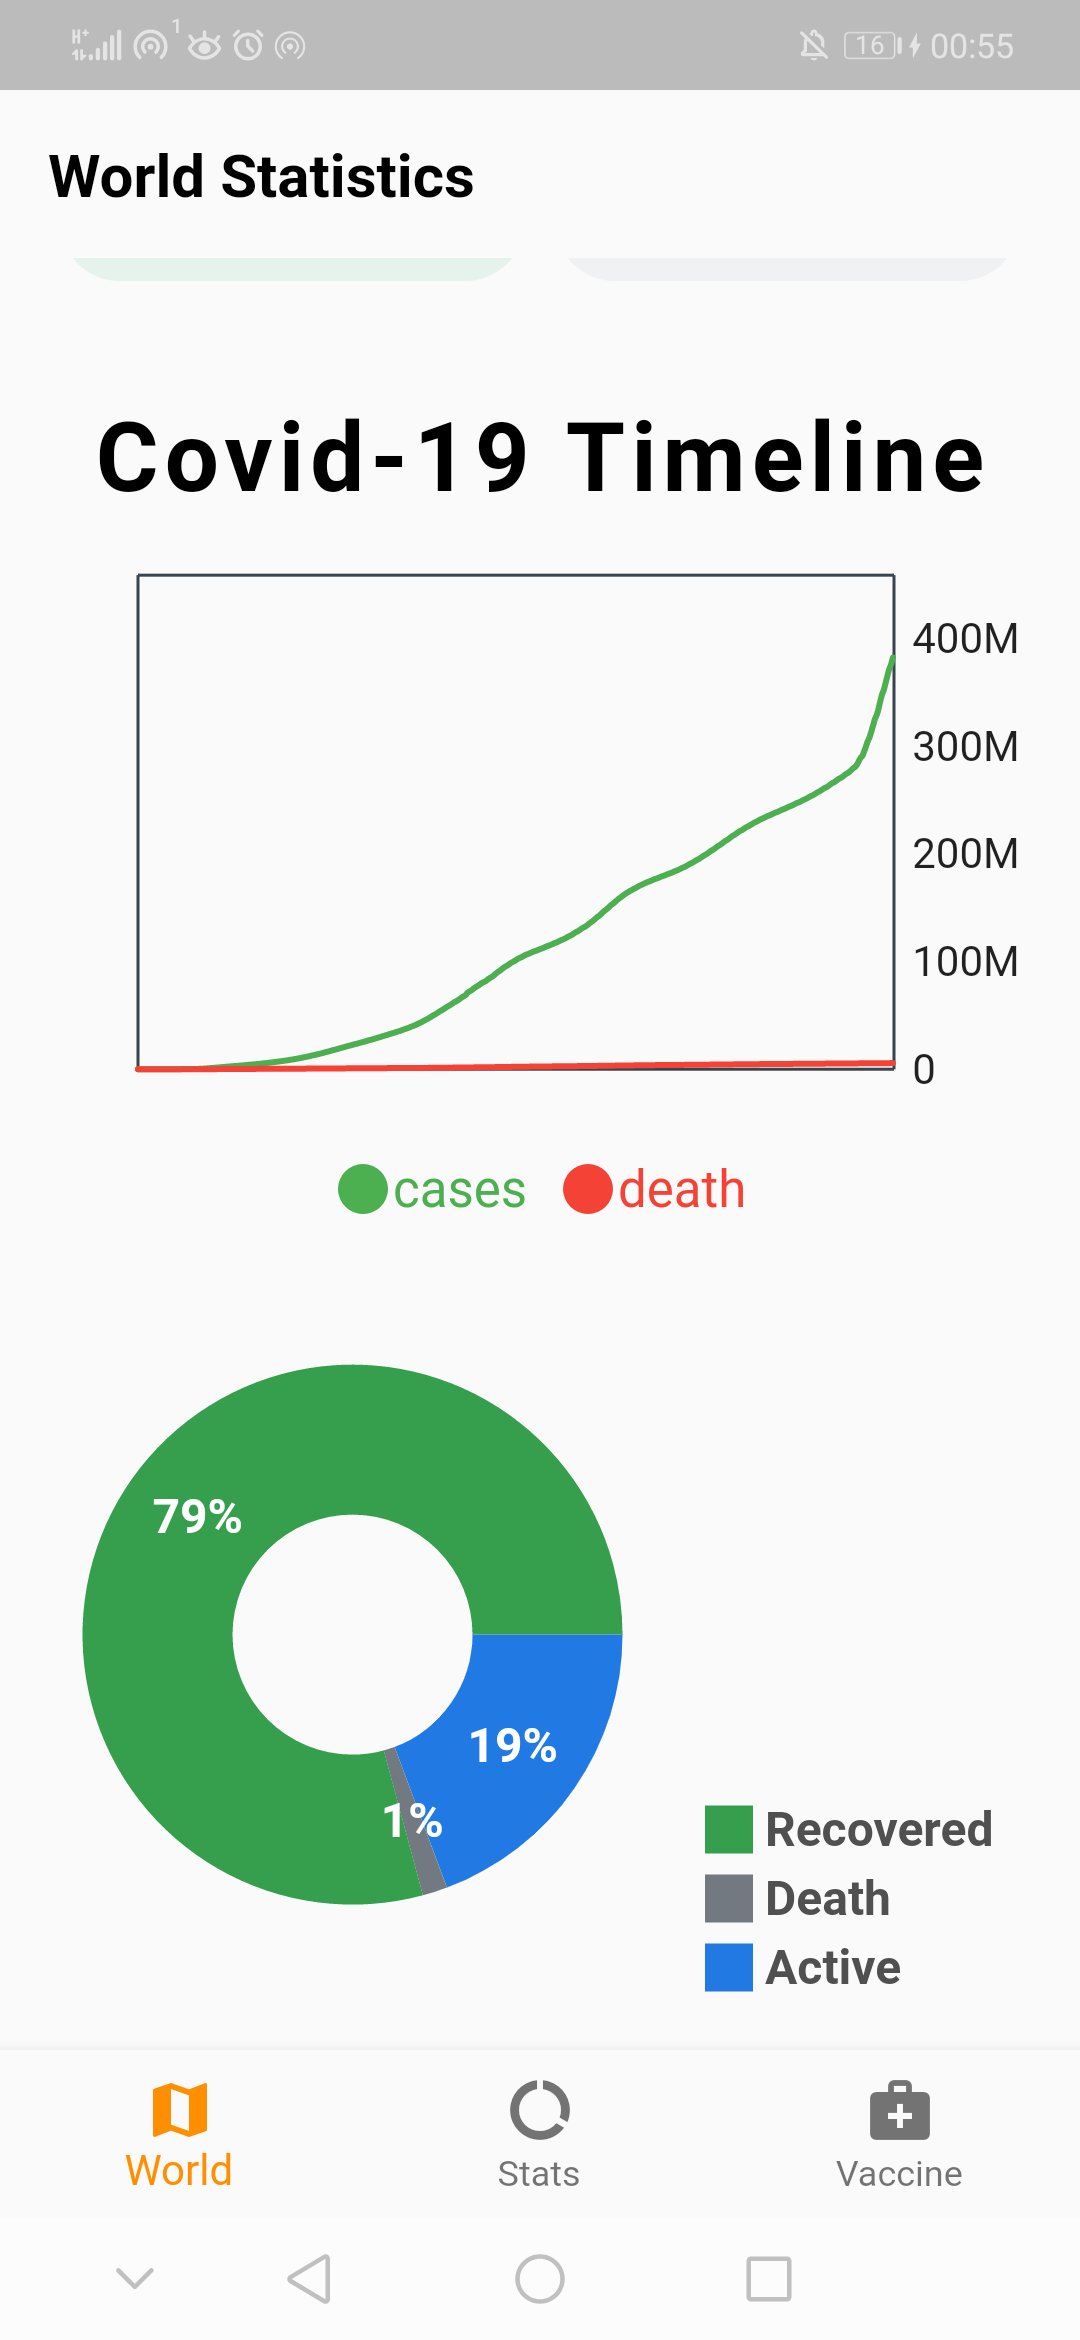
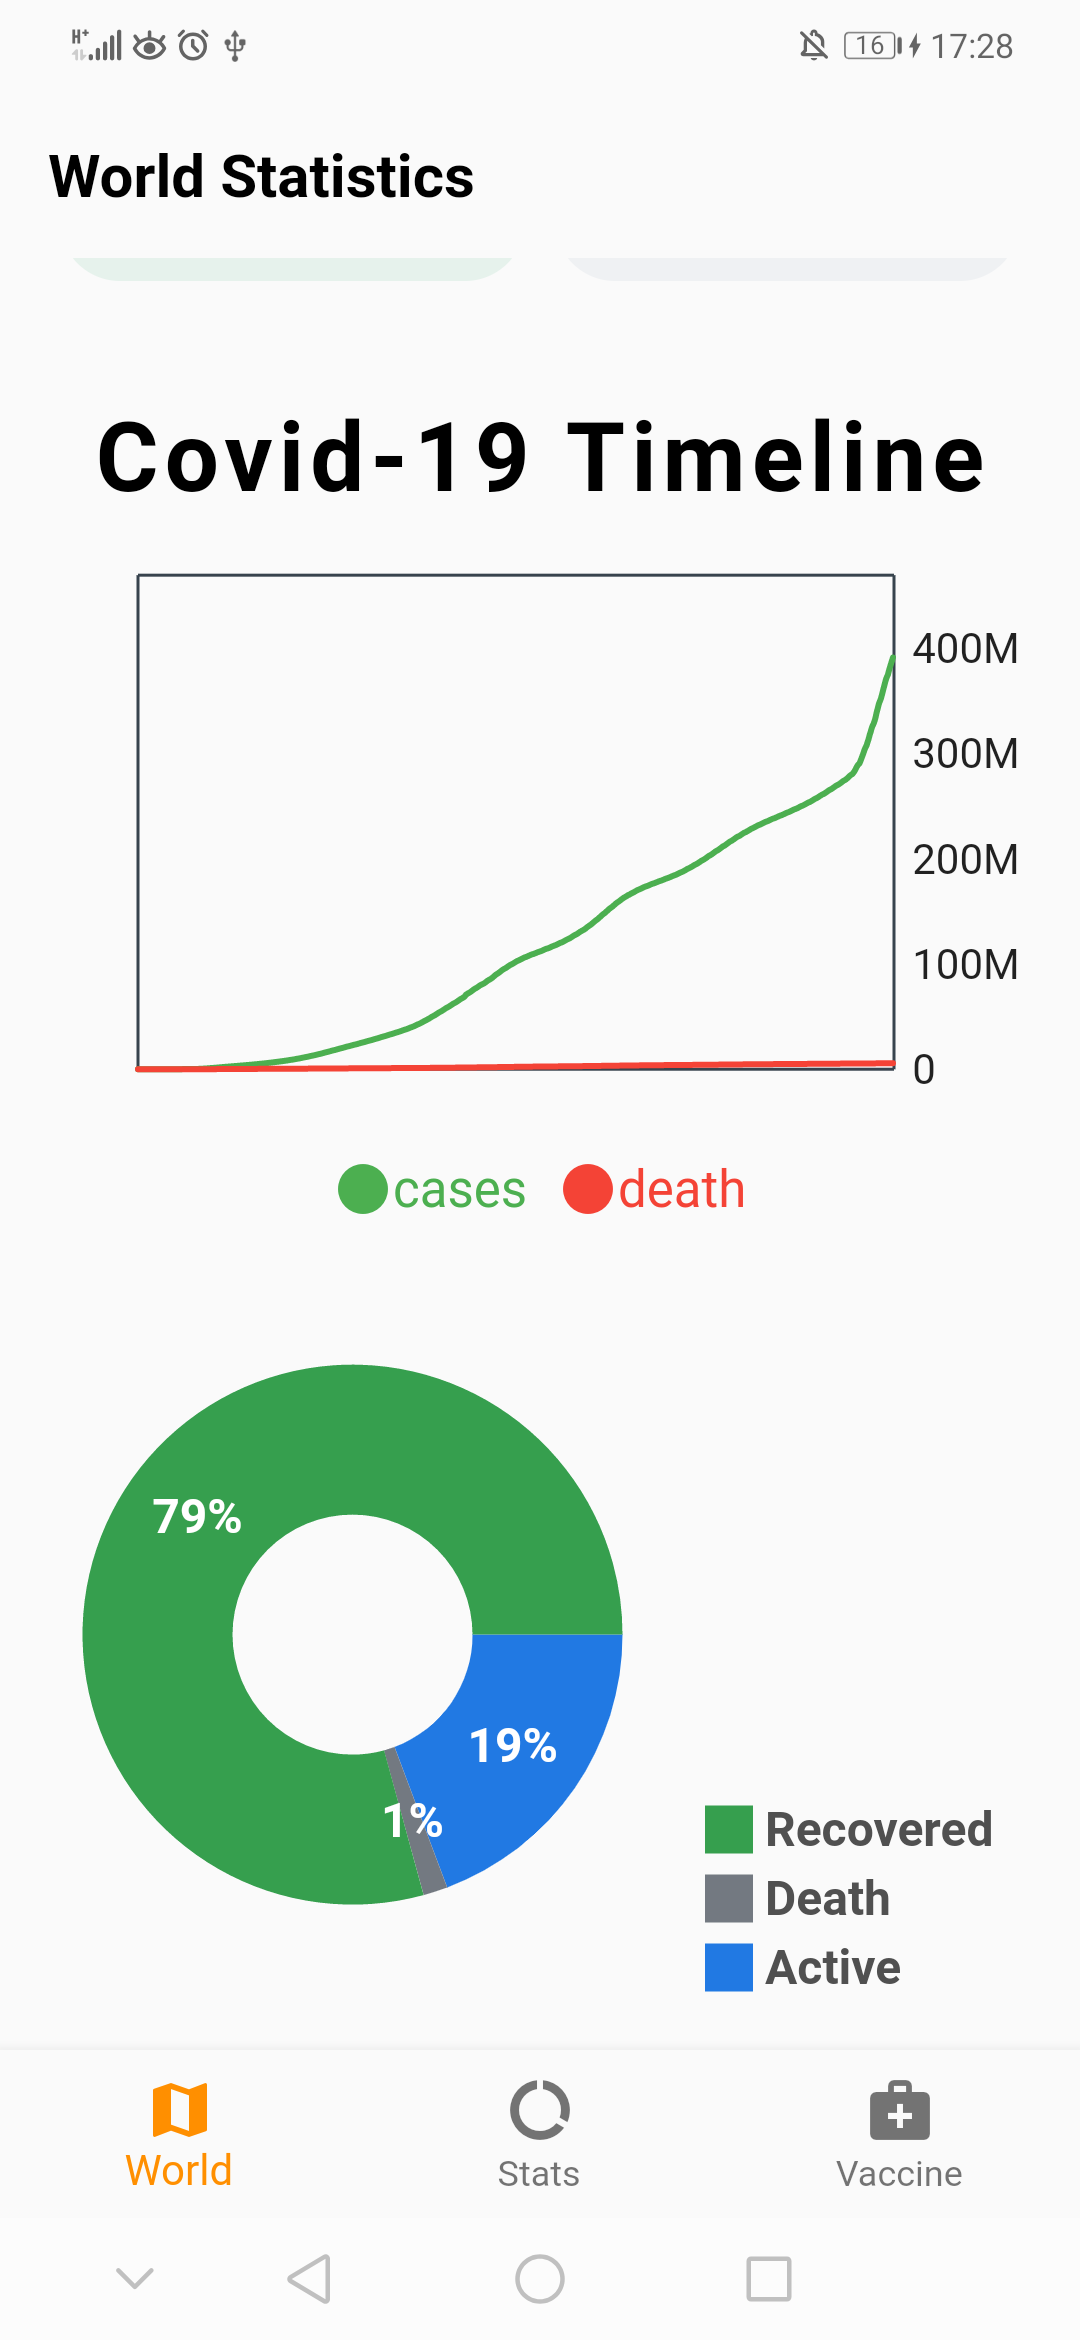
chore: change status bar color & update readme file

diff --git a/lib/utils/constants.dart b/lib/utils/constants.dart
@@ -1,7 +1,8 @@
 import 'package:flutter/material.dart';
+import 'package:flutter/services.dart';
 
 class Constants {
-
+  
   ///bottom nav bar items
   static const bottomNavWorld = "World";
   static const bottomNavStats = "Stats";
@@ -46,4 +47,10 @@ class Constants {
   static const textRecoveredColor = Color(0xFF369F4E);
   static const deceasedColor = Color(0xFFEFF1F3);
   static const textDeceasedColor = Color(0xFF737981);
+
+  //status bar color
+  static const statusBarColor = SystemUiOverlayStyle(
+      statusBarBrightness: Brightness.dark,
+      statusBarIconBrightness: Brightness.dark, 
+      statusBarColor: Colors.transparent);
 }

diff --git a/test/widget_test.dart b/test/widget_test.dart
@@ -5,12 +5,14 @@
 // gestures. You can also use WidgetTester to find child widgets in the widget
 // tree, read text, and verify that the values of widget properties are correct.
 
+import 'package:covid_tracker/di/service_locator.dart';
 import 'package:flutter/material.dart';
 import 'package:flutter_test/flutter_test.dart';
 
 import 'package:covid_tracker/main.dart';
 
 void main() {
+  initLocator();
   testWidgets('Counter increments smoke test', (WidgetTester tester) async {
     // Build our app and trigger a frame.
     await tester.pumpWidget(const MyApp());

diff --git a/lib/features/country-stats/country_view_detail.dart b/lib/features/country-stats/country_view_detail.dart
@@ -35,6 +35,7 @@ class _CountryViewDetailState extends State<CountryViewDetail> {
   Widget build(BuildContext context) {
     return Scaffold(
       appBar: AppBar(
+        systemOverlayStyle: Constants.statusBarColor,
         backgroundColor: Colors.transparent,
         iconTheme: const IconThemeData(color: Colors.black),
         elevation: 0.0,

diff --git a/lib/features/country-stats/country_view.dart b/lib/features/country-stats/country_view.dart
@@ -33,6 +33,7 @@ class _CountryViewState extends State<CountryView> {
         create: (_) => CountryViewModel(),
         child: Scaffold(
             appBar: AppBar(
+              systemOverlayStyle: Constants.statusBarColor,
               backgroundColor: Colors.transparent,
               elevation: 0.0,
               title: const Align(

diff --git a/lib/features/world-stats/world_view.dart b/lib/features/world-stats/world_view.dart
@@ -21,6 +21,7 @@ class WorldView extends StatelessWidget {
       create: (_) => WorldViewModel(),
       child: Scaffold(
         appBar: AppBar(
+          systemOverlayStyle: Constants.statusBarColor,
           backgroundColor: Colors.transparent,
           elevation: 0.0,
           title: const Align(

diff --git a/lib/features/vaccination-stats/vaccination_view.dart b/lib/features/vaccination-stats/vaccination_view.dart
@@ -32,6 +32,7 @@ class _VaccinationViewState extends State<VaccinationView> {
       child: Scaffold(
         extendBodyBehindAppBar: true,
         appBar: AppBar(
+          systemOverlayStyle: Constants.statusBarColor,
           backgroundColor: Colors.transparent,
           elevation: 0.0,
         ),

diff --git a/README.md b/README.md
@@ -43,11 +43,11 @@ World Stats Screen 1 | World Stats Screen 2 | Search Screen 1|
 
 | Search Screen 2 | Country Stats Screen | Vaccine Screen
 :--------------:|:--------------:|:--------------:|
-![search](images/search_country.png)|![stats](images/country_stats.png) | ![vaccine](images/map_vaccine.png)
+![search](images/search-country.png)|![stats](images/country-stats.png) | ![vaccine](images/map-vaccine.png)
 
 Country Stats Screen 2|
 :--------------:|
-<img src="images/country_vaccine.png" width="600"> |
+<img src="images/country-vaccine.png" width="600"> |
 
 
 ## How To Run
